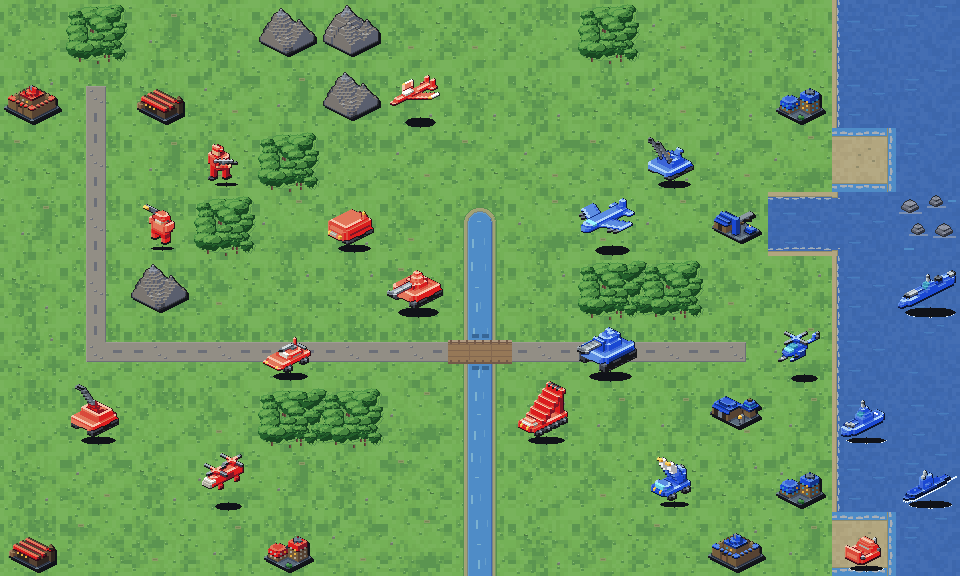
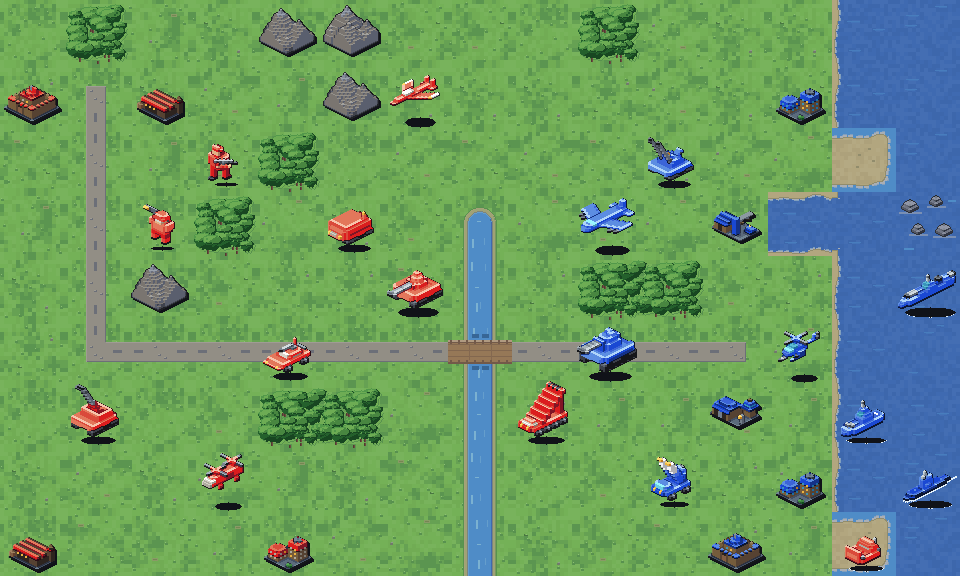
Wobble the waterline itself, and turn the beach through an arc
The shore was a ruled rect on every seaward edge — 4px of sand on a coast,
8px of water on a shoal, the same row in every column — with the wobble spent
on foam flecks laid over a straight cut, so a beach cell read as a beige
square in a blue picture frame. The boundary carries it now: the fixed hash
sampled every 16px along the edge and smoothstepped between the samples, 5px
peak to trough, with the lip and the foam following that line. The profile
wraps on the cell and coast and shoal read the same one per direction, so a
run of shore is continuous across cells and a beach agrees with the sea
beside it.

Both tiles draw off one signed distance into the region their edges enclose,
which is where the corner comes from: two seaward edges meet on a quarter-arc
(the rounded-rectangle distance) rather than two bands crossing at 90
degrees, and a shoal takes the same diagonal `corners` mask a coast does.
Shape only — same five tones, no new colour spent.

diff --git a/spritegen/autotile.py b/spritegen/autotile.py
@@ -321,6 +321,121 @@ def bridge_tile(horizontal: bool = True) -> Image.Image:
     return t if horizontal else t.transpose(Image.ROTATE_90)
 
 
+# The shoreline (design review 2026-08-24: the shore was a ruled rectangle).
+# The waterline itself carries the wobble now — the lip and the foam follow it
+# rather than jittering on their own over a straight cut — and it is drawn the
+# way the wood's tree line is: the fixed hash sampled at control points and
+# smoothstepped between them, so the boundary is BAYS AND POINTS at a scale the
+# board's 4:1 downsample can still see, not per-pixel noise it would eat. One
+# control point every 16px and 5px peak to trough — which still leaves 3px of
+# dry sand against the tile border at the deepest bay, so water never meets
+# the grass of the land cell next door.
+#
+# The profile is a function of the position ALONG the edge and wraps on the
+# cell, so the tile to the left ends exactly where this one begins: a run of
+# coast is one continuous shore, which is the plains ring's rule. Coast and
+# shoal read the same profile per direction, so a beach cell and the sea cell
+# beside it agree on where the water is.
+_SHORE_SPAN = 16  # px between control points — a bay, not a jitter
+_SHORE_AMP = 5.0  # peak to trough of the waterline
+# Four control points is four hash draws, and four draws are as likely to come
+# out flat as to come out as a coastline: this salt is the one whose worst
+# side of the four still spans 0.87 of the range, so no direction ships a
+# shore that happens to be straight.
+_SHORE_SALT = 206
+_SHORE_R = 7.0  # the radius the beach turns through at an outside corner
+_SIDE = {N: 0, E: 1, S: 2, W: 3}
+
+
+def _shore_wobble(u: int, side: int) -> float:
+    """How far the waterline is pushed inland at `u` px along a `side` edge."""
+    nodes = CELL // _SHORE_SPAN
+    i, f = divmod(u % CELL, _SHORE_SPAN)
+    a = h01(i % nodes, side, _SHORE_SALT)
+    b = h01((i + 1) % nodes, side, _SHORE_SALT)
+    t = f / _SHORE_SPAN
+    return (a + (b - a) * t * t * (3 - 2 * t) - 0.5) * _SHORE_AMP
+
+
+def _shore_profile(edges: int, depth: float) -> dict[int, list[float]]:
+    """The wobbled boundary of each active edge, as one distance per pixel
+    along it, `depth` being the width the band would have if it were ruled."""
+    return {
+        bit: [depth + _shore_wobble(u, _SIDE[bit]) for u in range(CELL)]
+        for bit in (N, E, S, W)
+        if edges & bit
+    }
+
+
+def _inland(x: int, y: int, prof: dict[int, list[float]]) -> tuple[float, int]:
+    """How deep (x, y) lies inside the region the profiles enclose, and where
+    it stands along the nearest of them.
+
+    Negative is outside. The corner where two edges meet is ROUNDED rather
+    than mitred — combining the two depths as a distance to the region eroded
+    by `_SHORE_R` is the rounded-rectangle trick — because a beach that turns
+    a corner turns through an arc; two crossing bands meeting at 90 degrees
+    are what made a coastline read as a picture frame.
+    """
+    total, near, along = 0.0, _SHORE_R * 4, 0
+    for bit, p in prof.items():
+        if bit == N:
+            d, u = (y + 0.5) - p[x], x
+        elif bit == S:
+            d, u = (CELL - 0.5 - y) - p[x], x
+        elif bit == W:
+            d, u = (x + 0.5) - p[y], y
+        else:
+            d, u = (CELL - 0.5 - x) - p[y], y
+        if d < near:
+            near, along = d, u
+        gap = _SHORE_R - d
+        if gap > 0:
+            total += gap * gap
+    return _SHORE_R - total**0.5, along
+
+
+def _foam_run(u: int, offset: int, run: int) -> bool:
+    """The scallop the breaking foam is cut into: a run of `run` px out of
+    every 8 along the shore, alternately longer, so the surf clusters instead
+    of dashing evenly like a road marking."""
+    k = (u // 8) % 2
+    return offset <= u % 8 < offset + run + k * 2
+
+
+def _draw_shore(t: Image.Image, prof: dict[int, list[float]], beach: bool) -> None:
+    """Paint the waterline `prof` describes: water, a one-pixel wet lip on the
+    sand side of it, dry sand beyond, and foam breaking on the water side.
+
+    `beach` says which side of the tile the sea is on. A shoal's profiles
+    enclose the SAND and the water lies against the tile edge; a coast's
+    enclose the water and the sand is the ring. Either way only the half that
+    is not the tile's own plate gets painted, so the sea keeps its glints and
+    the beach keeps its grain.
+    """
+    if not prof:
+        return
+    px = t.load()
+    foam_mix = mix(WATER, SNOW, 0.55)
+    snow_w = 2.0 if beach else 1.0
+    for y in range(CELL):
+        for x in range(CELL):
+            s, u = _inland(x, y, prof)
+            d = -s if beach else s  # depth into the water, either way
+            if d < -1.0:
+                if not beach:
+                    px[x, y] = (*SAND, 255)
+            elif d < 0.0:
+                px[x, y] = (*SAND_DARK, 255)
+            else:
+                if beach:
+                    px[x, y] = (*WATER, 255)
+                if d < snow_w and _foam_run(u, 0, 5):
+                    px[x, y] = (*SNOW, 255)
+                elif d < snow_w + 1.0 and _foam_run(u, 2, 3):
+                    px[x, y] = (*foam_mix, 255)
+
+
 def coast_tile(edges: int, corners: int = 0) -> Image.Image:
     """Sea with a sand-and-surf shoreline along each landward edge.
 
@@ -329,39 +444,7 @@ def coast_tile(edges: int, corners: int = 0) -> Image.Image:
     corner patch where land touches only diagonally.
     """
     t = sea()
-    foam_mix = mix(WATER, SNOW, 0.55)
-
-    def surf(along_x: bool, sand_at_low: bool) -> None:
-        # 4px dry sand, 1px wet lip, then irregular foam in the water
-        if along_x:
-            y_sand = 0 if sand_at_low else CELL - 4
-            _rect(t, 0, y_sand, CELL, 4, SAND)
-            y_lip = 4 if sand_at_low else CELL - 5
-            _rect(t, 0, y_lip, CELL, 1, SAND_DARK)
-            for k, sx in enumerate(range(0, CELL, 8)):
-                wob = int(h01(sx, y_lip, 43) * 2)
-                y_foam = (5 + wob) if sand_at_low else (CELL - 7 - wob)
-                _rect(t, sx, y_foam, 5 + (k % 2) * 2, 1, SNOW)
-                _rect(t, sx + 2, y_foam + (1 if sand_at_low else -1), 3, 1, foam_mix)
-        else:
-            x_sand = 0 if sand_at_low else CELL - 4
-            _rect(t, x_sand, 0, 4, CELL, SAND)
-            x_lip = 4 if sand_at_low else CELL - 5
-            _rect(t, x_lip, 0, 1, CELL, SAND_DARK)
-            for k, sy in enumerate(range(0, CELL, 8)):
-                wob = int(h01(x_lip, sy, 44) * 2)
-                x_foam = (5 + wob) if sand_at_low else (CELL - 7 - wob)
-                _rect(t, x_foam, sy, 1, 5 + (k % 2) * 2, SNOW)
-                _rect(t, x_foam + (1 if sand_at_low else -1), sy + 2, 1, 3, foam_mix)
-
-    if edges & N:
-        surf(True, True)
-    if edges & S:
-        surf(True, False)
-    if edges & W:
-        surf(False, True)
-    if edges & E:
-        surf(False, False)
+    _draw_shore(t, _shore_profile(edges, 5.0), beach=False)
 
     # diagonal-only land: a small sand nub in that corner, skipped when an
     # adjacent edge strip already reaches it
@@ -378,44 +461,27 @@ def coast_tile(edges: int, corners: int = 0) -> Image.Image:
     return t
 
 
-def shoal_tile(edges: int) -> Image.Image:
-    """A beach tile: dry sand with surf along each seaward edge."""
+def shoal_tile(edges: int, corners: int = 0) -> Image.Image:
+    """A beach tile: dry sand with surf along each seaward edge.
+
+    `edges` marks which sides the water is on; `corners` carries the same
+    bits for water that touches only diagonally (N->NE, E->SE, S->SW, W->NW),
+    the mirror of `coast_tile`'s.
+    """
     if edges == 0:
         edges = S
     t = _ground(SAND, 7)
-    foam_mix = mix(WATER, SNOW, 0.55)
+    _draw_shore(t, _shore_profile(edges, 8.0), beach=True)
 
-    def surf(along_x: bool, water_at_low: bool) -> None:
-        # 8px of water, a wet-sand lip, then scalloped breaking foam
-        if along_x:
-            y_w = 0 if water_at_low else CELL - 8
-            _rect(t, 0, y_w, CELL, 8, WATER)
-            y_lip = 8 if water_at_low else CELL - 9
-            _rect(t, 0, y_lip, CELL, 1, SAND_DARK)
-            for k, sx in enumerate(range(0, CELL, 8)):
-                wob = int(h01(sx, y_lip, 46) * 2)
-                y_f = (5 - wob) if water_at_low else (CELL - 7 + wob)
-                _rect(t, sx, y_f, 5 + (k % 2) * 2, 2, SNOW)
-                _rect(t, sx + 2, y_f + (-1 if water_at_low else 2), 3, 1, foam_mix)
-        else:
-            x_w = 0 if water_at_low else CELL - 8
-            _rect(t, x_w, 0, 8, CELL, WATER)
-            x_lip = 8 if water_at_low else CELL - 9
-            _rect(t, x_lip, 0, 1, CELL, SAND_DARK)
-            for k, sy in enumerate(range(0, CELL, 8)):
-                wob = int(h01(x_lip, sy, 47) * 2)
-                x_f = (5 - wob) if water_at_low else (CELL - 7 + wob)
-                _rect(t, x_f, sy, 2, 5 + (k % 2) * 2, SNOW)
-                _rect(t, x_f + (-1 if water_at_low else 2), sy + 2, 1, 3, foam_mix)
-
-    if edges & N:
-        surf(True, True)
-    if edges & S:
-        surf(True, False)
-    if edges & W:
-        surf(False, True)
-    if edges & E:
-        surf(False, False)
+    # diagonal-only water: a small pool in that corner, skipped when an
+    # adjacent surf band already reaches it
+    nubs = {N: (CELL - 6, 0), E: (CELL - 6, CELL - 6), S: (0, CELL - 6), W: (0, 0)}
+    adjacent = {N: N | E, E: E | S, S: S | W, W: W | N}
+    for bit, (cx, cy) in nubs.items():
+        if corners & bit and not edges & adjacent[bit]:
+            _rect(t, cx, cy, 6, 6, WATER)
+            _rect(t, cx, cy + (5 if cy == 0 else 0), 6, 1, SAND_DARK)
+            _rect(t, cx + (5 if cx == 0 else 0), cy, 1, 6, SAND_DARK)
     # dry-sand speckles kept clear of the surf bands
     for sx, sy in ((26, 26), (36, 20), (24, 38), (40, 32)):
         _rect(t, sx, sy, 3, 2, SAND_DARK)

diff --git a/tests/test_generated_output.py b/tests/test_generated_output.py
@@ -1851,6 +1851,94 @@ class CanopyGrain(unittest.TestCase):
         self.assertGreater(len(every), 4 * len(common))
 
 
+class Shoreline(unittest.TestCase):
+    """A coast is bays and points, and it joins up across the cell.
+
+    `CanopyGrain` above measures the same thing for a wood's tree line, and
+    the shore had exactly the fault the canopy was fixed for: the waterline
+    was a ruled full-width rect on every seaward edge — 4px of sand on a
+    coast, 8px of water on a shoal, the same row in every column — with the
+    wobble spent on decorative foam flecks laid over a straight cut. A beach
+    cell read as a beige square in a dashed blue picture frame.
+
+    The reading is the WET LIP, which is the waterline by construction: one
+    pixel of `SAND_DARK` between the water and the dry sand, scanned in from
+    the water side of the edge under test. Columns where a perpendicular
+    edge's water covers the whole scan — the corners of a two-sided tile,
+    where the shore has turned and belongs to the other edge — have no lip of
+    their own and drop out.
+
+    Two numbers, both of which a ruled line fails outright (one distinct row,
+    mode share 1.00): how many rows the boundary visits, and how much of it
+    sits on any single row — the strongest band in the profile. The flattest
+    variant on the sheet today visits 5 rows with a 0.54 mode share.
+    """
+
+    MIN_BOUNDARY_ROWS = 3
+    MODE_SHARE_CEILING = 0.60  # measured flattest variant: 0.54
+    SEAM_LUMA_STEP = 4.0  # docs/plains_field.md's reading, across a cell edge
+
+    def _lip_profile(self, img, bit: int, beach: bool) -> list[int]:
+        """Where the wet lip stands along edge `bit`, one entry per pixel
+        along it.
+
+        Scanned from the WATER side and stopped at the tile's midline, so
+        neither a facing edge's own lip nor the dry sand's `SAND_DARK`
+        speckles can answer first: a shoal's water lies against the tile
+        border and a coast's fills the middle.
+        """
+        px = img.convert("RGB").load()
+        half = CELL // 2
+        span = range(half) if bit in (N, W) else range(half, CELL)
+        scan = list(span) if beach == (bit in (N, W)) else list(span)[::-1]
+        out = []
+        for u in range(CELL):
+            for k in scan:
+                p = px[u, k] if bit in (N, S) else px[k, u]
+                if p == terrain.SAND_DARK:
+                    out.append(k)
+                    break
+        return out
+
+    def _edges(self, mask: int):
+        return [bit for bit in (N, E, S, W) if mask & bit]
+
+    def test_the_waterline_is_bays_and_points_rather_than_a_ruled_line(self):
+        for builder, beach in (
+            (autotile.coast_tile, False),
+            (autotile.shoal_tile, True),
+        ):
+            for mask in range(1, 16):
+                tile = builder(mask)
+                for bit in self._edges(mask):
+                    with self.subTest(sheet=builder.__name__, mask=mask, edge=bit):
+                        prof = self._lip_profile(tile, bit, beach)
+                        self.assertGreater(len(prof), CELL // 2)
+                        self.assertGreaterEqual(len(set(prof)), self.MIN_BOUNDARY_ROWS)
+                        top = Counter(prof).most_common(1)[0][1]
+                        self.assertLessEqual(top / len(prof), self.MODE_SHARE_CEILING)
+
+    def test_the_shore_runs_on_into_the_next_cell(self):
+        """The wobble is a function of the position ALONG the edge and wraps
+        on the cell, so the shore of the tile to the left ends where this
+        one's begins: a bay may not be cut off by a tile border."""
+        for builder, beach in (
+            (autotile.coast_tile, False),
+            (autotile.shoal_tile, True),
+        ):
+            with self.subTest(sheet=builder.__name__):
+                prof = self._lip_profile(builder(N), N, beach)
+                self.assertLessEqual(abs(prof[0] - prof[-1]), 1)
+                strip = Image.new("RGB", (CELL * 2, CELL))
+                for i in range(2):
+                    strip.paste(builder(N).convert("RGB"), (i * CELL, 0))
+                px = strip.load()
+                left = [terrain.luminance(px[CELL - 1, y]) for y in range(CELL)]
+                right = [terrain.luminance(px[CELL, y]) for y in range(CELL)]
+                step = abs(sum(left) - sum(right)) / CELL
+                self.assertLessEqual(step, self.SEAM_LUMA_STEP)
+
+
 class OneSun(unittest.TestCase):
     """One light, so one shadow direction — over the whole sheet.
 

diff --git a/spritegen/atlas.py b/spritegen/atlas.py
@@ -342,6 +342,21 @@ def build_demo() -> Image.Image:
                 m |= bit
         return m
 
+    def corner_mask(x: int, y: int, joins: frozenset[str]) -> int:
+        """The same bits for the DIAGONAL neighbours, N reading north-east and
+        going clockwise — the contract the coast and shoal tiles round their
+        outside corners against."""
+        m = 0
+        for bit, (dx, dy) in (
+            (autotile.N, (1, -1)),
+            (autotile.E, (1, 1)),
+            (autotile.S, (-1, 1)),
+            (autotile.W, (-1, -1)),
+        ):
+            if at(x + dx, y + dy) in joins:
+                m |= bit
+        return m
+
     road_joins = frozenset({"road", "bridge"})
     river_joins = frozenset({"river", "bridge", "sea"})
     for y, row in enumerate(rows):
@@ -351,7 +366,9 @@ def build_demo() -> Image.Image:
             elif tid == "river":
                 tile = autotile.river_tile(mask(x, y, river_joins), salt=x * 7 + y)
             elif tid == "shoal":
-                tile = autotile.shoal_tile(mask(x, y, _WATERY))
+                tile = autotile.shoal_tile(
+                    mask(x, y, _WATERY), corner_mask(x, y, _WATERY)
+                )
             elif tid == "woods":
                 tile = autotile.woods_tile(mask(x, y, frozenset({"woods"})))
             elif tid == "bridge":

diff --git a/README.md b/README.md
@@ -286,7 +286,18 @@ against the grass — the crowns stop a hash-keyed 0-6px short of a border
 they end at, so the tree line is bays and points and a woods block is not a
 rectangle). A crown that overhangs a continued border is drawn again a whole
 cell along, so two woods cells butt on the same crown rather than on two
-halves of different ones. Each connection sheet lays out masks 0-15
+halves of different ones. A shore is bays and points for the same reason a
+tree line is, and the wobble is on the WATERLINE rather than on decoration
+laid over a ruled one: the fixed hash sampled every 16px along the edge and
+smoothstepped between the samples, 5px peak to trough, with the wet lip and
+the breaking foam following that line. The profile wraps on the cell, so the
+shore of the tile alongside begins where this one's ends, and coast and shoal
+read the same profile per direction, so a beach cell and the sea cell beside
+it agree on where the water is. Where two seaward edges meet the beach turns
+through a quarter-arc (`autotile._inland`, the rounded-rectangle distance)
+rather than crossing two bands at a right angle, which is what had a beach
+reading as a beige square in a blue picture frame; a shoal takes the same
+diagonal `corners` mask a coast does. Each connection sheet lays out masks 0-15
 row-major (bit order N=1, E=2, S=4, W=8); `bridges.png` carries its two
 decks side by side. Mask 15 on the woods sheet is the atlas tile exactly, so only a wood's fringe
 leaves the base sheet. A river is cut into a bank rather than laid on the
